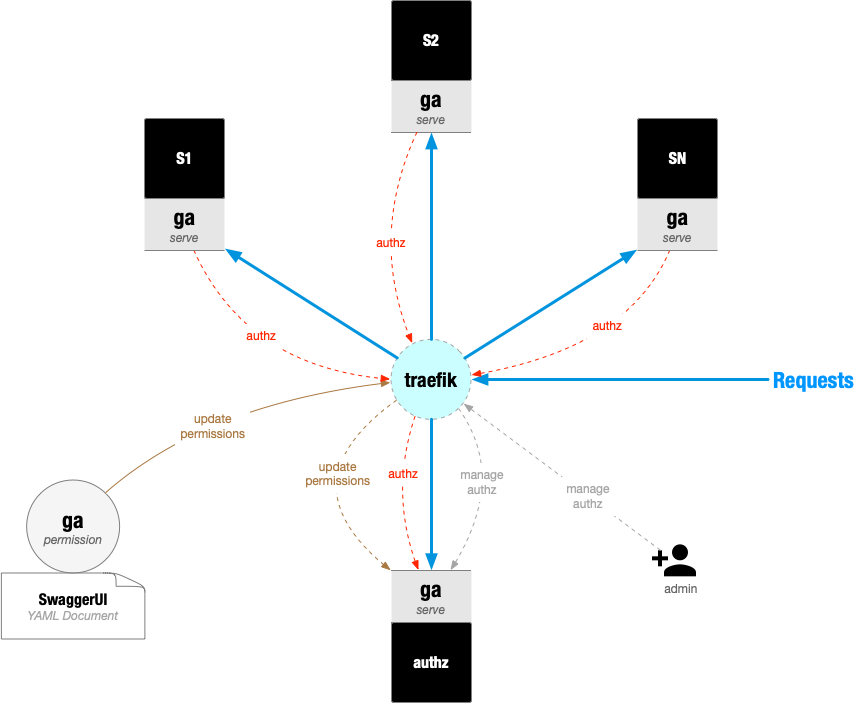
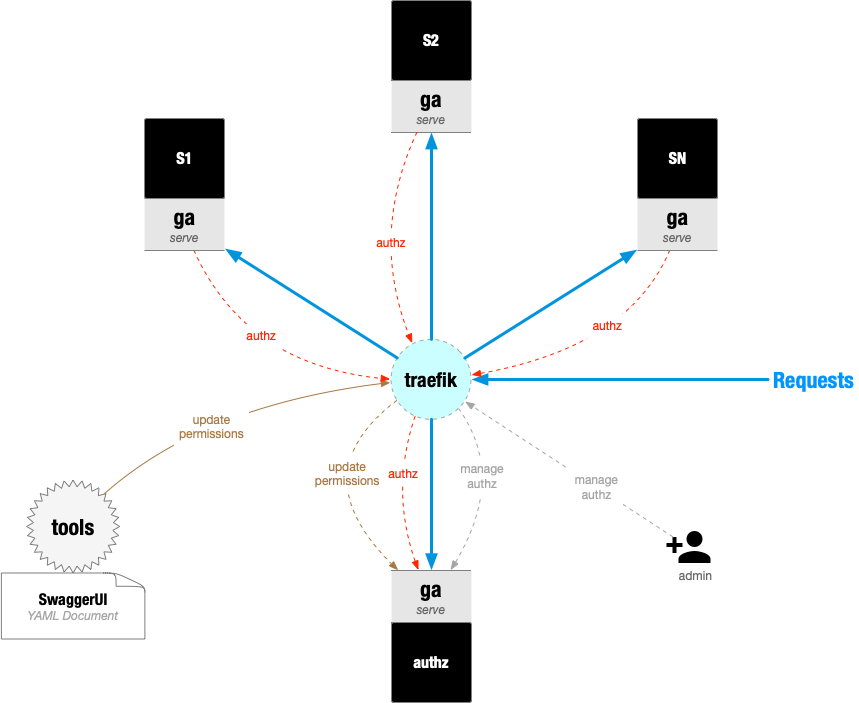
权限名以 Swagger 文档中的值组成

diff --git a/docs/authz.md b/docs/authz.md
@@ -1,8 +1,31 @@
-# Auth
+# AuthZ
 
 ga 环境中 authz 架构图如下：
 
 ![](./attachments/ga-authz-arch.png)
 
-1. 管理员（admin）运行初始化程序（`ga permission`）调用 `auth` 服务提供的接口更新权限。考虑 golang openapi 包处理 SwaggerUI Spec 的 Path 一致性，这里会使用 ga 子命令处理 Spec 文件的权限处理，并调用 auth 接口上传配置。
+1. 管理员（admin）运行初始化程序（`ga permission`）调用 `authz` 服务提供的接口更新权限。
 2. authz 和 authn 分开，这样有利于 authz 功能更内聚。
+
+
+## 权限名称
+
+以 SwaggerUI 文档的关键值组成，全部字符串使用 **小写**：
+
+1. Service Name : 本服务的名称，如 `authz`
+2. Method : 请求方法，如 `get`, `post`, `put`, `delete`, `head` 等
+3. Path : 如 `/user/{id}`
+
+最终组成的权限名称字符串示例如下：
+
+```
+authz:get:/role/{id}
+authz:post:/role/{id}
+authz:delete:/role/{id}
+authz:get:/permission/{id}
+authz:post:/permission/{id}
+authz:delete:/permission/{id}
+```
+
+TODO:
+1. 权限名中的 `Service Name` 可以考虑使用 SwaggerUI YAML 文档中的某个值为默认值
